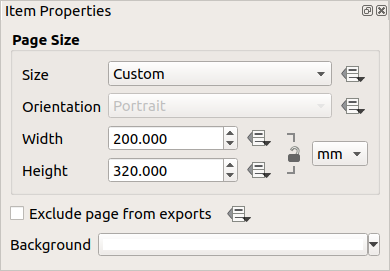
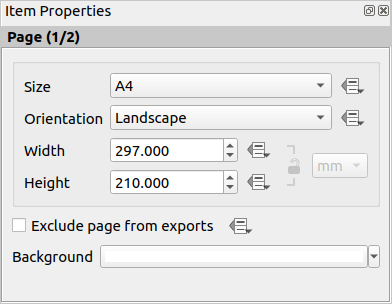
Show layout page number in page properties

diff --git a/docs/user_manual/print_composer/overview_composer.rst b/docs/user_manual/print_composer/overview_composer.rst
@@ -650,6 +650,8 @@ To access a page's properties, left-click on an empty section of the page
 or right-click on a page and select :guilabel:`Page Properties...`.
 The :guilabel:`Item Properties` panel opens with settings such as:
 
+* for layouts with several pages, it displays the active page number
+  and the count of available pages
 * the :guilabel:`Page size` frame described above.
   You can modify each property using the data defined override options
   (see :ref:`atlas_data_defined_override` for a use case); 
